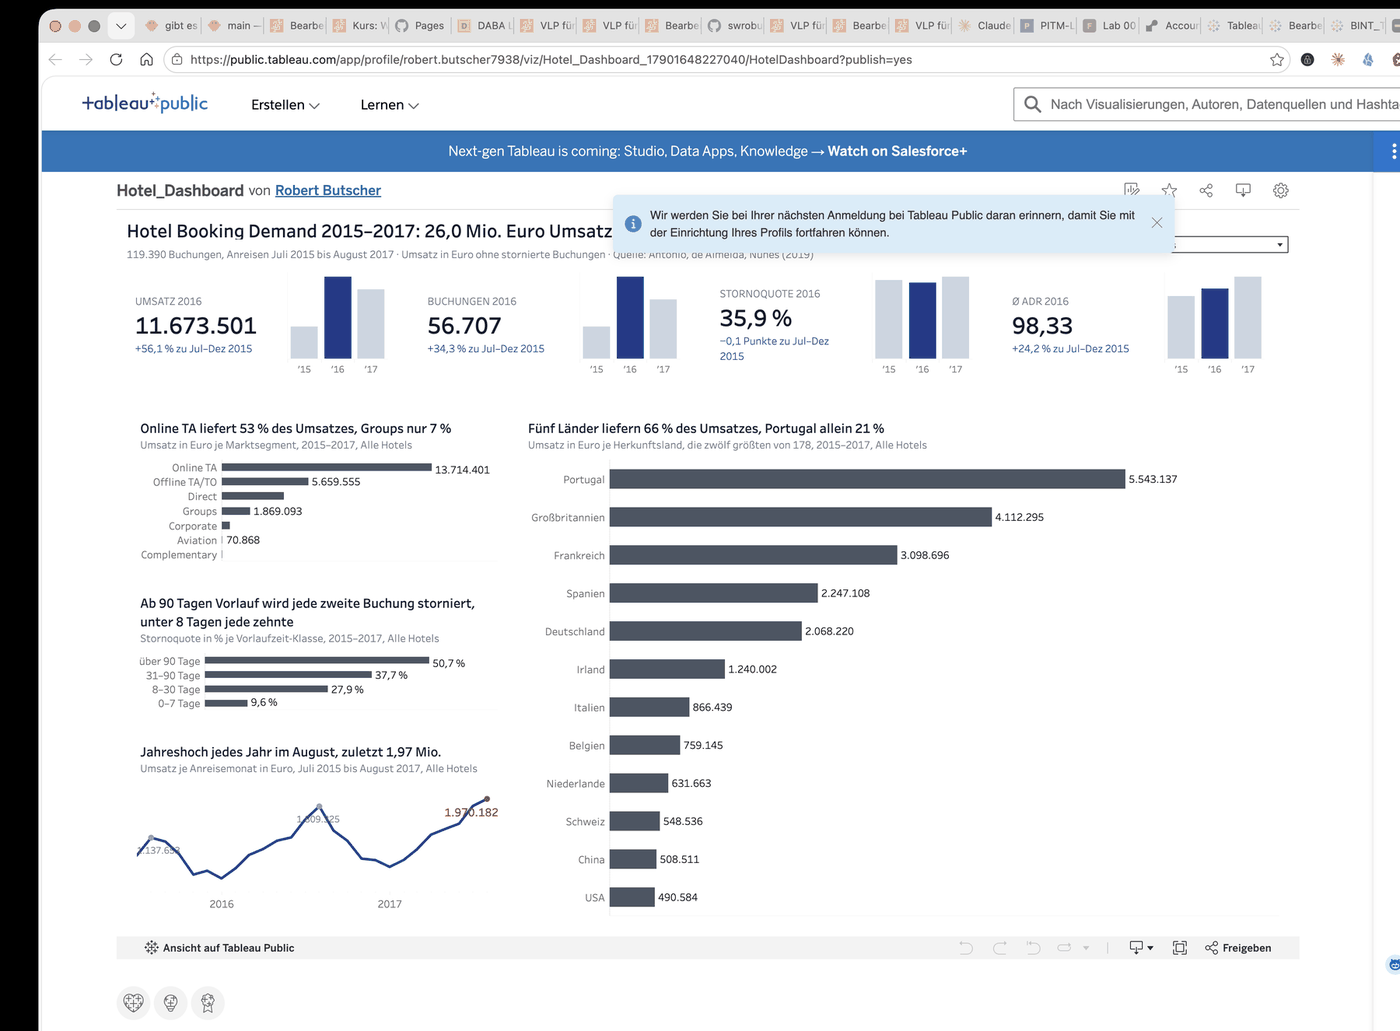
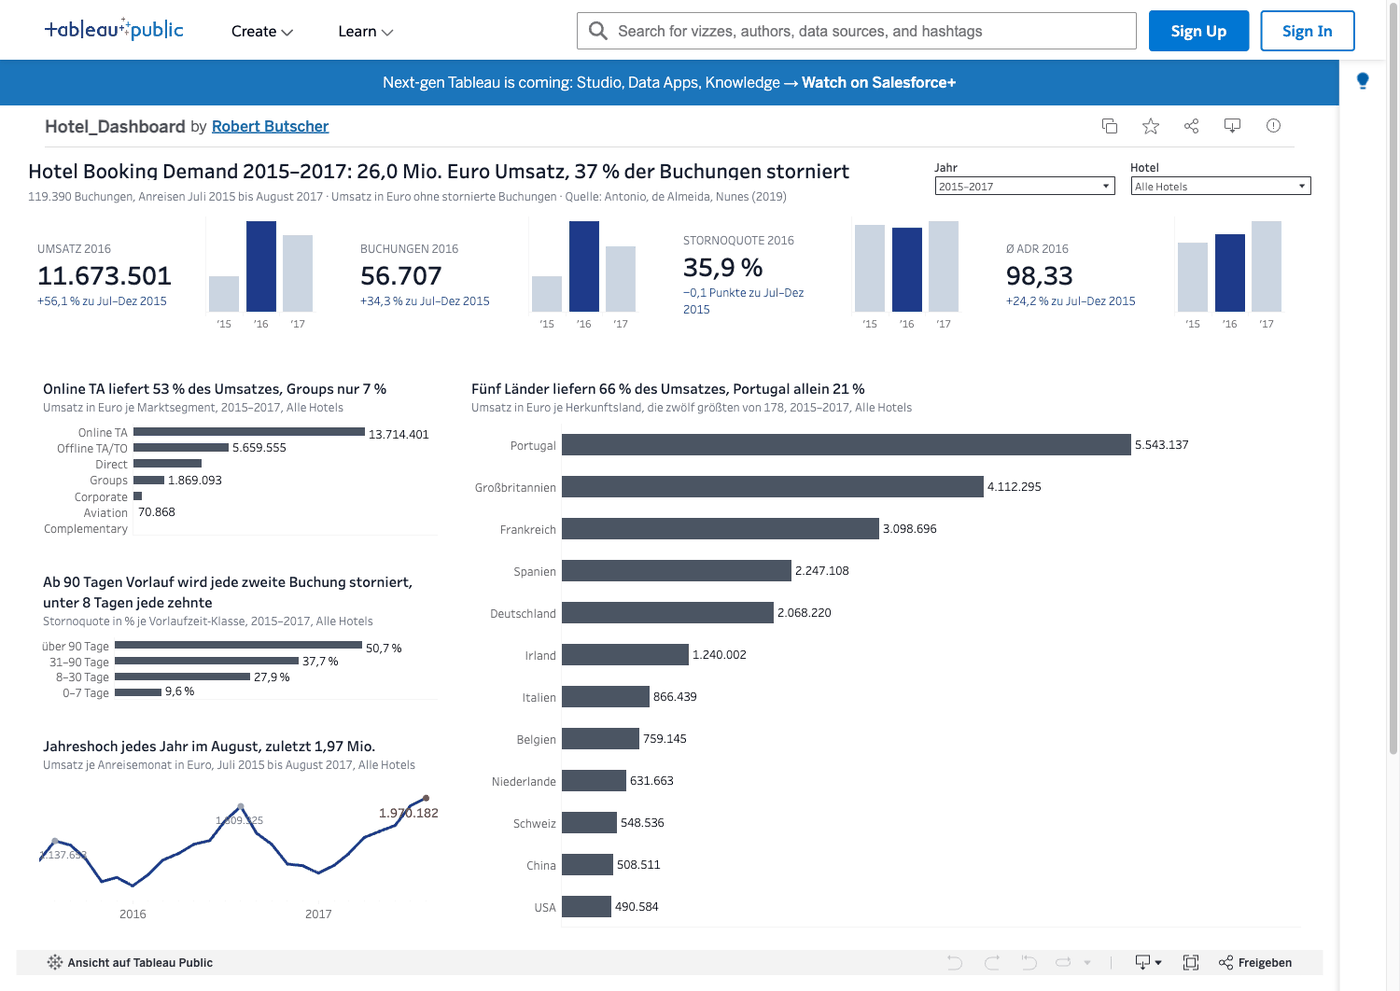
Lab 07: Public-Screenshot ohne Hinweisbalken, Klarnamen-Hinweis, Autorenleitfaden, Linkprüfung
Tableau-Public-Bild ohne Anmeldung aufgenommen (Parameter :language=de-DE, sonst
US-Zahlenformat); Sandbox nennt den Unterschied zwischen Klarnamen und Originalwerten;
AUTORENLEITFADEN.md hält die Abweichungen von WInf-SP und die verbindliche Begriffsliste
fest; tools/links.mjs prüft die externen Adressen einmal je Semester.

diff --git a/lab-07-powerbi.html b/lab-07-powerbi.html
@@ -542,9 +542,10 @@ THEN (IF [is_canceled] = 0 THEN [revenue] END) END</pre>
       einfachste Weg, für Unternehmensdaten ausgeschlossen.</p>
     <p><a class="btn-download" href="https://public.tableau.com/app/profile/robert.butscher7938/viz/Hotel_Dashboard_17901648227040/HotelDashboard" target="_blank" rel="noopener noreferrer">Dashboard auf Tableau Public öffnen</a></p>
     <figure class="abbildung">
-      <img src="assets/img/tableau-public.png" alt="Das Hotel-Dashboard auf Tableau Public im Browser mit der Kopfzeile von Tableau Public und der Leiste zum Teilen und Herunterladen" width="1400" height="1031" loading="lazy" />
-      <figcaption>Tableau Public: ohne Anmeldung erreichbar; die Leiste unten bietet Teilen, Vollbild und Herunterladen
-        der Arbeitsmappe. Das Gebietsschema der Arbeitsmappe bestimmt Tausenderpunkt und Dezimalkomma.</figcaption>
+      <img src="assets/img/tableau-public.png" alt="Das Hotel-Dashboard auf Tableau Public im Browser mit der Kopfzeile von Tableau Public und der Leiste zum Teilen und Herunterladen" width="1400" height="991" loading="lazy" />
+      <figcaption>Tableau Public ohne Anmeldung: Die Leiste unter dem Dashboard bietet Ansicht auf Tableau Public, Vollbild,
+        Herunterladen und Freigeben. Aufgerufen mit dem Parameter <code>?:language=de-DE</code> – ohne ihn formatiert
+        Tableau Public die Zahlen nach der Sprache des Betrachters, also mit Komma als Tausendertrenner.</figcaption>
     </figure>
     <h3>Tableau Cloud: geschlossen, für die Organisation</h3>
     <p><em>Server → Anmelden</em> mit dem Site-Namen als Adresse, dann <em>Server → Arbeitsmappe veröffentlichen</em>:
@@ -622,7 +623,9 @@ THEN (IF [is_canceled] = 0 THEN [revenue] END) END</pre>
 
   <section class="section-block" id="spielplatz">
     <h2>Sandbox</h2>
-    <p>Ein nachgebildeter Feldbereich mit den Feldern des Projekts und einer Stichprobe von 5.000 Buchungen, einmal mit den Field Wells von Power BI (X-Achse, Y-Achse, Legende), einmal mit den Shelves von Tableau (Columns, Rows, Color). Ziehen Sie Felder hinein; das Diagramm folgt aus der Belegung. Die Stichprobe liefert andere absolute Zahlen als das Dashboard, aber dieselben Muster – und die Σ-Falle
+    <p>Ein nachgebildeter Feldbereich mit den Feldern des Projekts und einer Stichprobe von 5.000 Buchungen, einmal mit den Field Wells von Power BI (X-Achse, Y-Achse, Legende), einmal mit den Shelves von Tableau (Columns, Rows, Color). Ziehen Sie Felder hinein; das Diagramm folgt aus der
+      Belegung. Die Werte tragen hier die Klarnamen des Dashboards (Reisebüro online, Ohne Anzahlung); Power BI und
+      Tableau zeigen die Originalwerte der Datenbank (Online TA, No Deposit), solange man sie nicht übersetzt. Die Stichprobe liefert andere absolute Zahlen als das Dashboard, aber dieselben Muster – und die Σ-Falle
       ist eingebaut.</p>
     <h3>Power BI: X-Achse, Y-Achse, Legende</h3>
     <div data-regal="frei" data-variante="powerbi"></div>

diff --git a/AUTORENLEITFADEN.md b/AUTORENLEITFADEN.md
@@ -1,0 +1,64 @@
+# Hotel-Lab · Leitfaden für Lab-Autoren
+
+Das Hotel-Lab folgt dem Autorenleitfaden von WInf-SP (`../WInf-SP/tools/AUTORENLEITFADEN.md`):
+Dramaturgie je Lab, Befehlskarten, Übungstypen, Nachbildungen mit Ziffern, `verify.mjs` nach
+jeder Änderung. Dieser Text hält nur fest, worin das Hotel-Lab davon abweicht.
+
+## Abweichungen von WInf-SP
+
+* **Nur Deutsch.** Keine `lang="en"`-Spans, JSON-Texte nur `de`, kein Sprachumschalter.
+* **Echte Daten.** Das Sternschema `hotel_bi` mit allen 119.390 Buchungen in PGlite; keine
+  synthetische Fallstudie. Kontrollzahlen: 119.390 Buchungen, Stornoquote 37,0 %, Umsatz
+  25.996.260 €, gebuchter Umsatz 42.723.498 €.
+* **Screenshots in Lab 07.** Power BI und Tableau werden an echten Screenshots gezeigt
+  (`assets/img/`), weil dort die Reihenfolge der Handgriffe in zwei Oberflächen das Lernziel ist.
+  Alle anderen Labs bleiben bei Nachbildungen. Screenshots: `<figure class="abbildung">` mit
+  `alt`, `width`, `height` und `<figcaption>`; Dialoge mit Klasse `schmal`, Einzelbereiche mit
+  `mittel`; Breite höchstens 1400 px, PNG mit 256 Farben (zusammen unter 1,5 MB).
+* **Starterpaket.** Referenzlösungen liegen unter `starter/` (Hotel.pbix, Hotel_pbip.zip,
+  Hotel_Dashboard.twbx) und werden aus dem Projekt-Repo `swrobuts/hotel` übernommen, nicht hier
+  gepflegt.
+* **Feldbereich-Simulator** (`data-regal`, Varianten `powerbi` und `tableau`) mit der flachen
+  Stichprobe `data/regal-buchungen.json`; die Werte tragen die Klarnamen des Dashboards.
+
+## Begriffe
+
+Englische Fachbegriffe bleiben englisch, deutsche Erklärung daneben. Verbindlich:
+
+| so | nicht so |
+|---|---|
+| Shelf, Shelves (Tableau: Columns, Rows, Marks) | Regal, Ablage |
+| Field Well, Field Wells (Power BI) | Feldfenster |
+| Feldbereich (nachgebildeter Simulator beider Werkzeuge) | Regal-Simulator |
+| Sandbox | Spielplatz |
+| Measure, DAX, berechnetes Feld, LOD-Ausdruck | Maß, Kennzahlformel |
+| Image, Container, Volume, Branch, Commit, Repository | Abbild, Band, Zweig |
+| Runtime (Render), Root Directory, Build Command, Start Command, Web Service | Laufzeit (bei Render), Wurzelverzeichnis |
+| Cache, Fallback, Badge, Screenshot, Deploy, Deployment | Zwischenspeicher, Rückfall, Bildmarke, Bildschirmfoto, Bereitstellen |
+| Anzahlungsart (deposit_type) | Kautionstyp, Kaution |
+| City Hotel, Resort Hotel (Namen der Häuser) | Stadthotel, Ferienhotel |
+
+Deutsche Wörter, die die Werkzeuge selbst verwenden, sind erlaubt: Laufzeit und Kernel (Colab),
+Arbeitsblatt, Kennzahl, Dimension (Tableau), Datenbereich, Modellansicht (Power BI), Sicht,
+Zeichenkette, Eingabeaufforderung.
+
+Datenwerte bleiben, wie die Datenbank sie liefert (Online TA, No Deposit, Transient); wo das
+Dashboard Klarnamen zeigt (Reisebüro online, Ohne Anzahlung), steht das dabei.
+
+## Text
+
+Jeder Satz trägt eine Zahl, einen Mechanismus, einen Akteur oder eine prüfbare Behauptung.
+Gestrichen werden Rahmensätze („Die Reihenfolge ist wichtiger, als sie aussieht“),
+Wichtigkeitsbehauptungen („ebenso wichtig“, „verdient eine Bemerkung“), Bildbeschreibungen
+(„Die Abbildung zeigt“) und Verneinungsfiguren („kein Mangel, sondern Absicht“). Zahlen im Text
+werden gegen die Daten gerechnet; für Lab 07 mit `tools/sollwerte_dashboard.py` im Projekt-Repo.
+Namen der Vordenker (Tufte, Few, Bissantz, Hichert) nur in Lab 08, wo sie als Quellen der
+Gestaltungsregeln genannt werden; sonst nur die Regeln.
+
+## Prüfen vor der Abgabe
+
+```bash
+node tools/verify.mjs 2>/dev/null | grep -E "FEHL|Zusicherungen"   # Struktur, Texte, Übungen
+node tools/links.mjs                                               # externe Adressen, je Semester
+grep -rnoiE "Regal\w*|Spielplatz|Feldfenster|Kaution\w*|Abbild\b|Bildschirmfoto" *.html data/uebungen
+```

diff --git a/README.md b/README.md
@@ -100,6 +100,10 @@ node tools/verify.mjs --ohne-sql # nur Struktur
 node tools/sql.mjs "SELECT count(*) FROM fact_bookings"
 ```
 
+`node tools/links.mjs` ruft die externen Adressen der Labs auf (Tableau Public, Tableau Cloud,
+Power-BI-Dienst, Dashboard, Repositories) und meldet, welche nicht mehr antworten – einmal je Semester
+laufen lassen. Wie ein Lab geschrieben wird, steht in `AUTORENLEITFADEN.md`.
+
 Der Lauf prüft, dass Platzhalter und JSON deckungsgleich sind, jeder Text vorhanden ist, die
 Übungszahlen in `LABS` stimmen, jede JSON-, Reihenfolge-, Feldbereich- und Deploy-Übung mit ihrer
 Lösung lösbar ist und ihr Starttext noch nicht, und dass jede SQL-Musterlösung auf dem Sternschema
